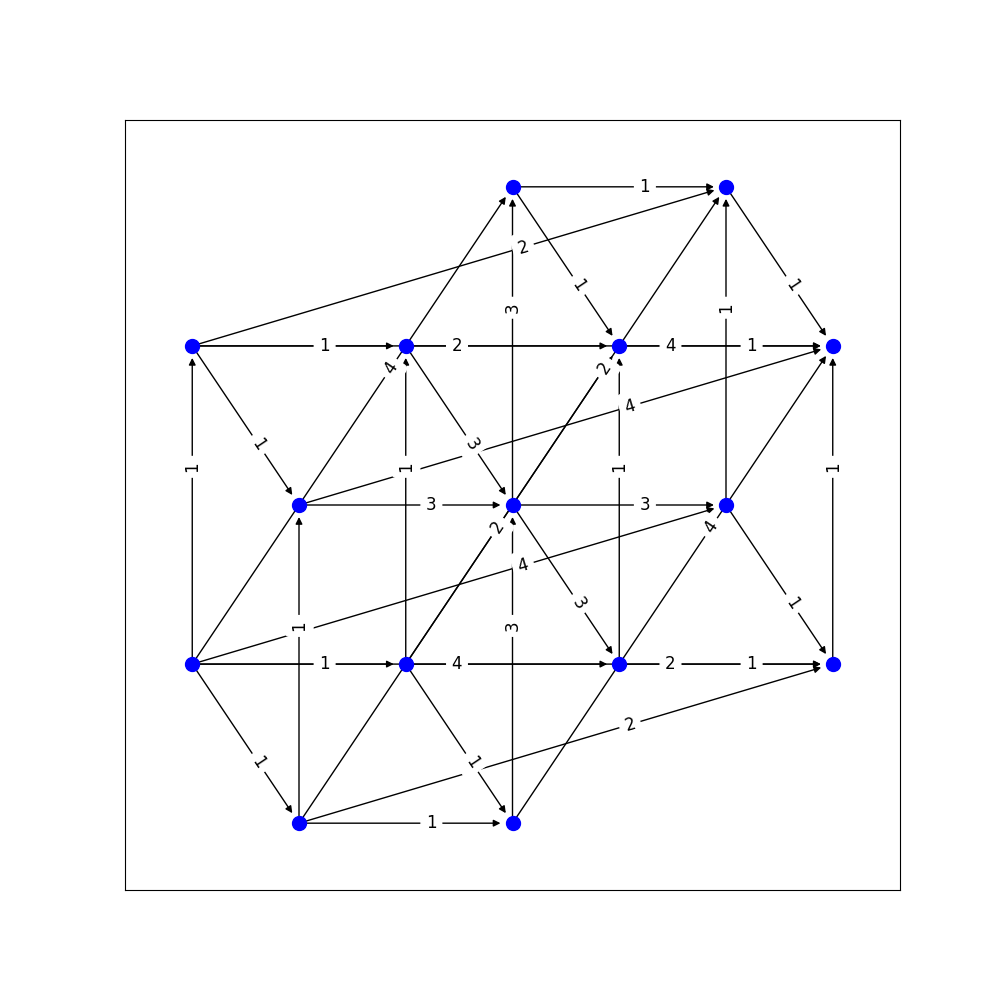
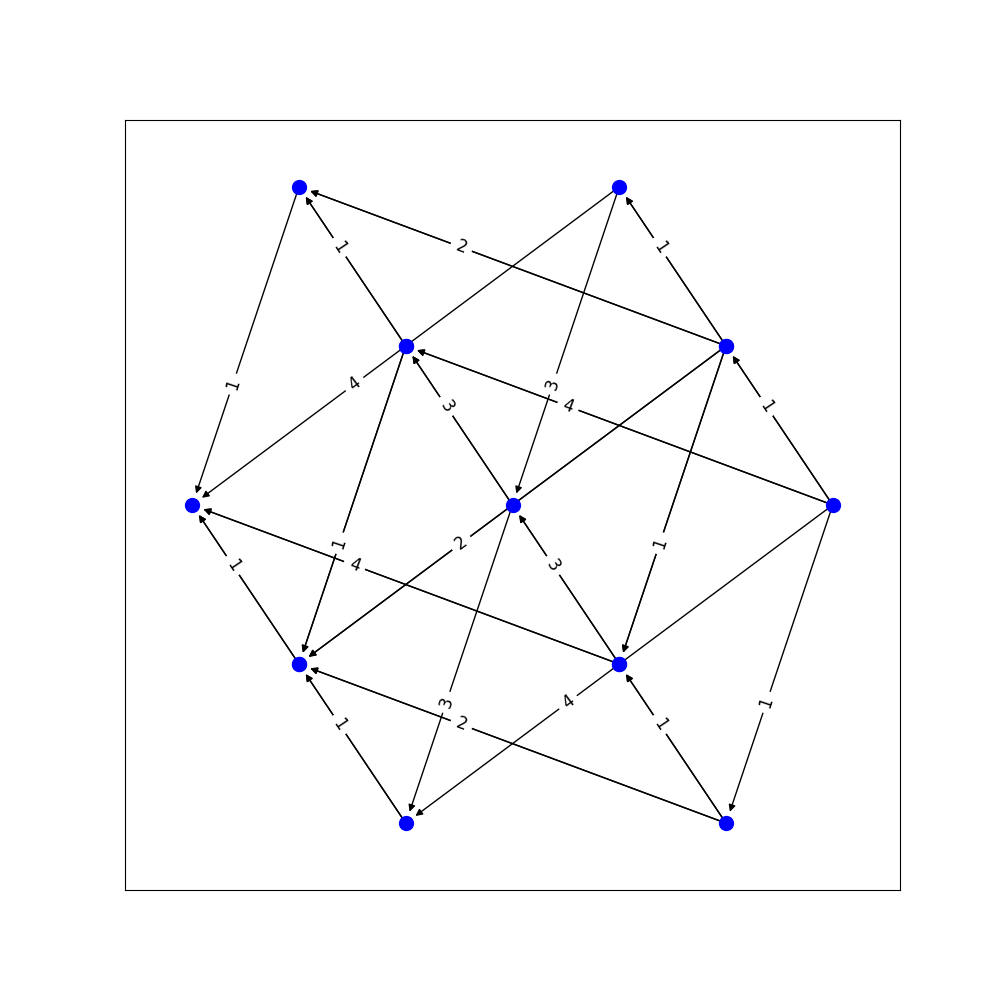
fixed draw dimension bug

diff --git a/example.py b/example.py
@@ -1,0 +1,60 @@
+from kirky import Kirchhoff
+from kirky.imagine import draw, draw3d
+import numpy as np
+from fractions import Fraction
+
+
+"""
+To generate the Kirchhoff Graph for the matrix
+1 0 2 1
+0 1 1 2
+"""
+matrix = np.array([[Fraction(2),Fraction(1)], [Fraction(1),Fraction(2)]])
+k = Kirchhoff(matrix)
+k.find()
+draw(k, 'drawings/kirchhoff1.png')
+
+"""
+To generate the Kirchhoff Graph for the matrix
+1 0 -1 1 1
+0 1  1 2 1
+"""
+matrix = np.array([[Fraction(-1),Fraction(1),Fraction(1)],[Fraction(1),Fraction(2),Fraction(1)]])
+k = Kirchhoff(matrix)
+k.find()
+draw(k, 'drawings/kirchhoff2.png')
+
+"""
+To generate the Kirchhoff Graph for the matrix
+1 0 -1 1  3
+0 1  1 2 -1
+"""
+matrix = np.array([[Fraction(-1),Fraction(1), Fraction(3)],[Fraction(1),Fraction(2), Fraction(-1)]])
+k = Kirchhoff(matrix)
+k.find()
+draw(k, 'drawings/kirchhoff3.png')
+
+"""
+To generate the Kirchhoff Graph for the matrix
+1 0 -3/2 1/2
+0 1  1/2 1/2
+"""
+matrix = np.array([[Fraction(-3,2),Fraction(1,2)], [Fraction(1,2),Fraction(1,2)]])
+k = Kirchhoff(matrix)
+k.find()
+draw(k, 'drawings/kirchhoff4.png')
+
+
+"""
+To generate the Kirchhoff Graph for the matrix
+1 0 0 2 1 1
+0 1 0 1 2 1
+0 0 1 2 1 2
+"""
+matrix = np.array([[Fraction(2),Fraction(1), Fraction(1)], 
+				   [Fraction(1),Fraction(2), Fraction(1)],
+				   [Fraction(1),Fraction(1), Fraction(2)]])
+k = Kirchhoff(matrix)
+k.find()
+draw(k, 'drawings/kirchhoff5.png')
+draw3d(k, 'drawings/kirchhoff5_3d.png')

diff --git a/kirky/imagine.py b/kirky/imagine.py
@@ -79,7 +79,10 @@ def build_nx_graph(adjacencies, labels):
 	return DG, edge_labels
 
 
-def draw(k, file_path, x=[1, 0], y=[0, 1]):
+def draw(k, file_path, x=None, y=None):
+	if k.dimensions == 2:
+		x = [1, 0]
+		y = [0, 1]
 	edges = list(k.frame.coordinate_vectors) + list(k.frame.cross_vectors)
 	vertices, adjacencies, labels = create_tables(edges)
 	if x is None or y is None:
@@ -91,7 +94,7 @@ def draw(k, file_path, x=[1, 0], y=[0, 1]):
 	plt.figure(figsize=(10,10))
 	x = nx.draw_networkx_edges(graph, pos=projected_vertices)
 	nodes = nx.draw_networkx_edge_labels(graph, pos=projected_vertices, font_size=12,
-										 edge_labels=edge_labels, label_pos=0.38)
+											edge_labels=edge_labels, label_pos=0.38)
 	plt.scatter(projected_vertices[:, 0], projected_vertices[:, 1], color='blue', s=100)
 	plt.savefig(file_path)
 
